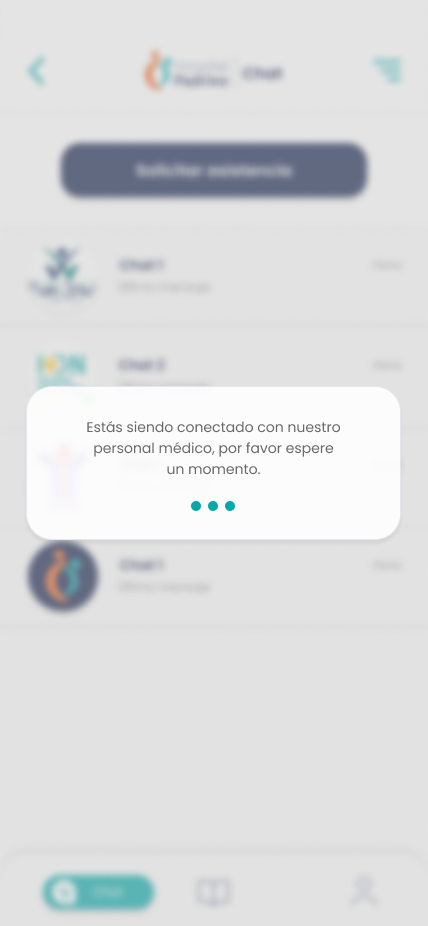
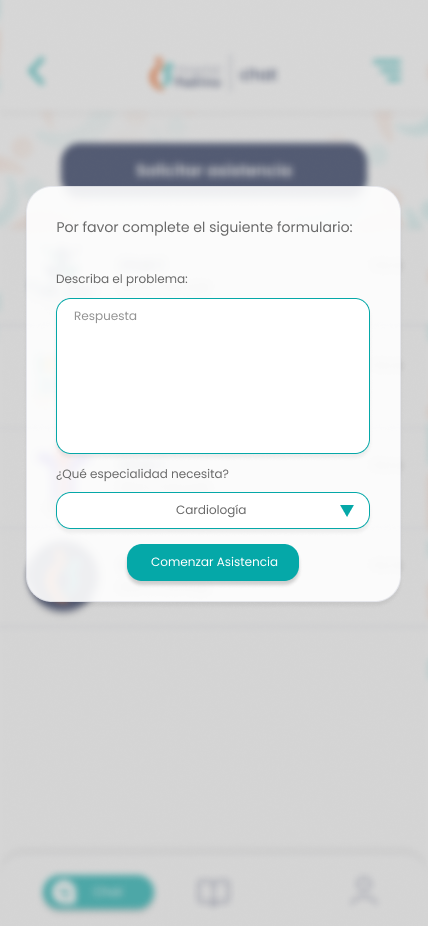
nuevas pantallas

diff --git a/sketch.js b/sketch.js
@@ -27,6 +27,7 @@ function preload() {
   pantallas[10] = loadImage("assets/Pantalla10.png")
   pantallas[11] = loadImage("assets/Pantalla11.png");
   pantallas[12] = loadImage("assets/Pantalla12.png");
+  pantallas[13] = loadImage("assets/Pantalla13.png");
 }
 
 function mousePressed() {
@@ -81,23 +82,23 @@ function mousePressed() {
   // Boton de emergencia alta
   if (mouseX > 54 && mouseX < 54 + 320 && mouseY > 478 && mouseY < 478 + 40 &&
     pantallaActual === 2) {
-    pantallaActual = 6;
+    pantallaActual = 8;
   }
 
   // Botón comenzar asistencia
-  if (mouseX > 128 && mouseX < 128 + 175 && mouseY > 666 && mouseY < 666 + 40 &&
-    pantallaActual === 6) {
+  if (mouseX > 127 && mouseX < 172 + 175 && mouseY > 544 && mouseY < 544 + 38 &&
+    pantallaActual === 8) {
     pantallaActual = 7;
   }
 
    // Botón comenzar asistencia
    if (mouseX > 54 && mouseX < 54 + 320 && mouseY > 450 && mouseY < 450 + 40 &&
     pantallaActual === 7) {
-    pantallaActual = 8;
+    pantallaActual = 13;
   }
   //carga de llamada (hay que cambiarlo)
-  if (mouseX > 45 && mouseX < 45 + 108 && mouseY > 874 && mouseY < 874 + 31 &&
-    pantallaActual === 8) {
+  if (mouseX > 43 && mouseX < 43 + 113 && mouseY > 875 && mouseY < 875 + 34 &&
+    pantallaActual === 13) {
     pantallaActual = 9;
   }
 
